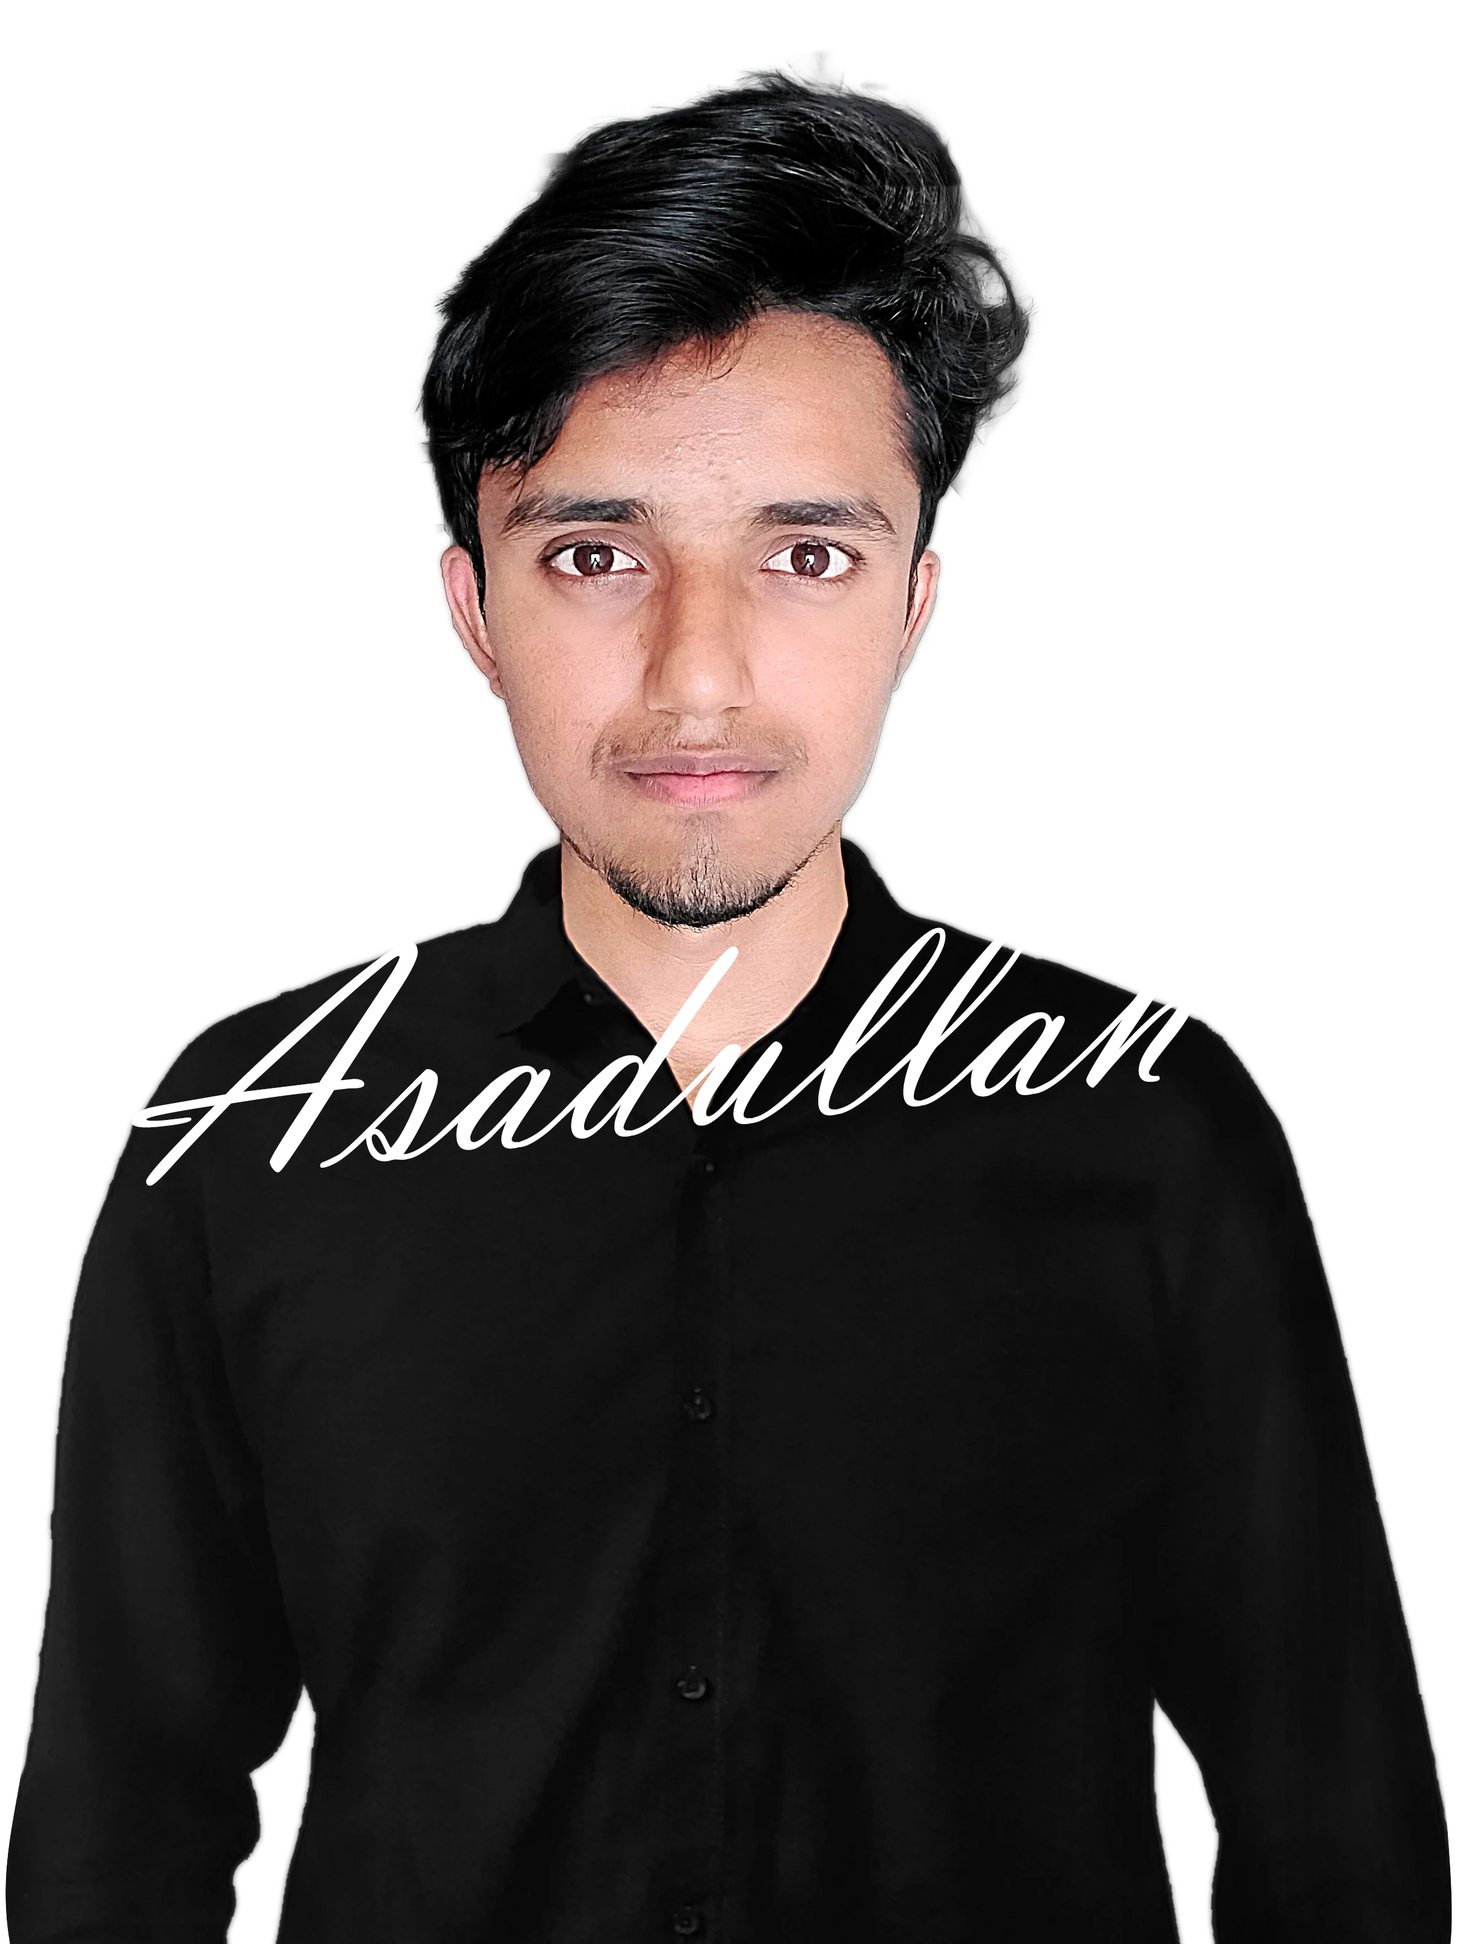
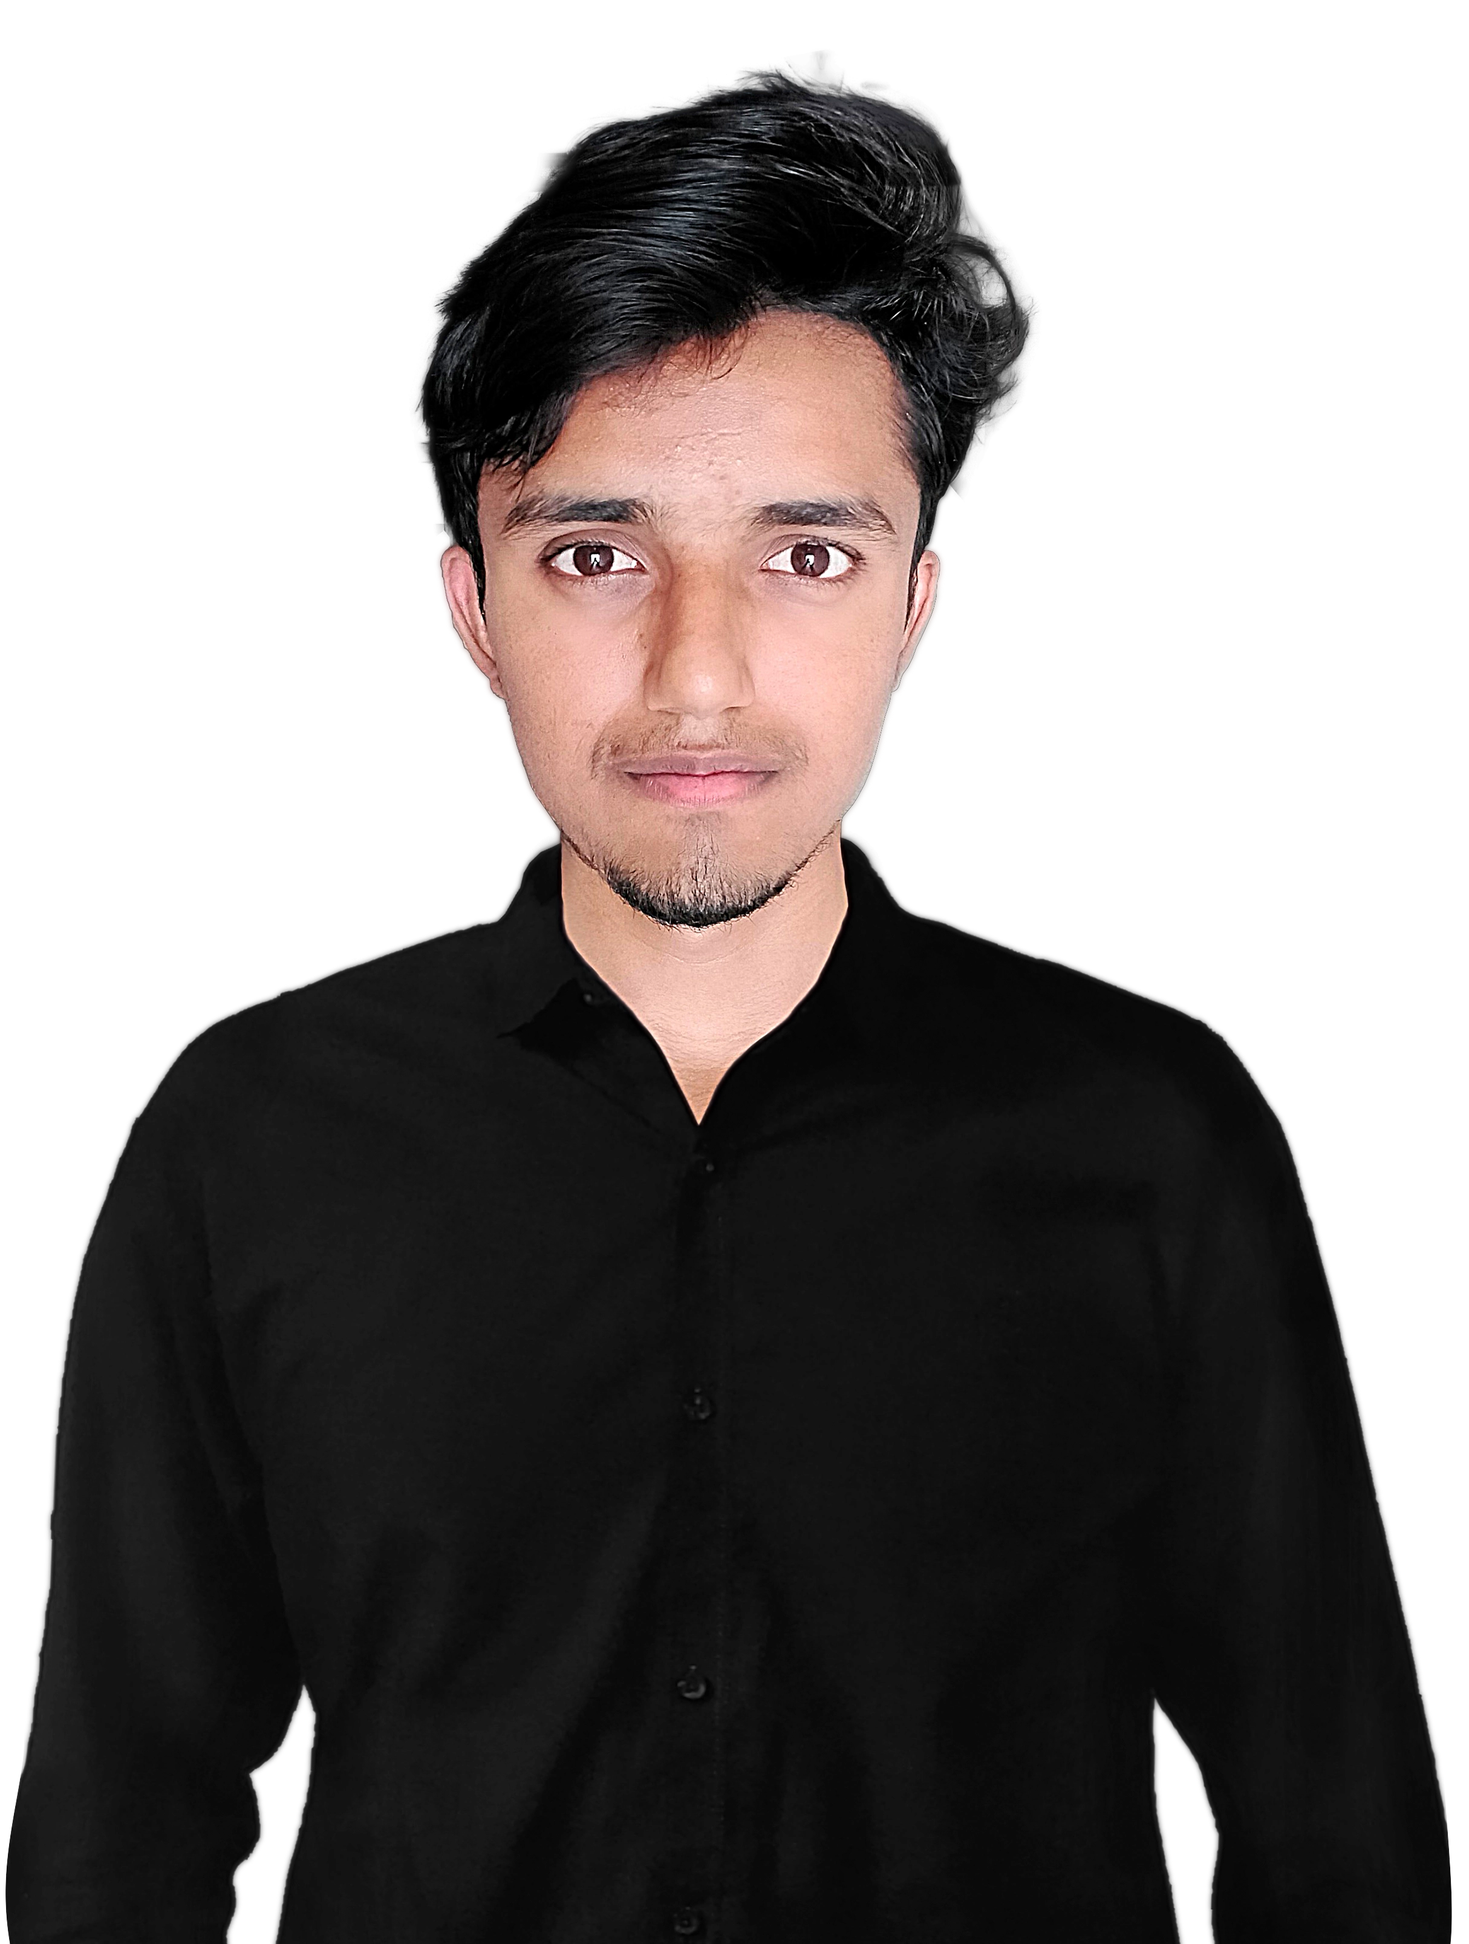
incomplete desktop

Changed region(s): [[0.0926, 0.4669, 0.8028, 0.6225]]

diff --git a/src/app/asadullah/svgs.tsx b/src/app/asadullah/svgs.tsx
@@ -67,10 +67,32 @@ export function GithubLogo() {
 export function Badge() {
     return (
         <svg className="mx-[auto]" xmlns="http://www.w3.org/2000/svg" width="205.4" height="205.533" viewBox="0 0 205.4 205.533">
-            <path id="Path_44" data-name="Path 44" d="M494.4,381.472a18.354,18.354,0,0,1-.666-17.521,12.189,12.189,0,0,0-3.179-15.2,18.34,18.34,0,0,1-6.275-16.424,12.189,12.189,0,0,0-7.9-13.356,18.367,18.367,0,0,1-11.3-13.425,12.175,12.175,0,0,0-11.8-10.065,18.423,18.423,0,0,1-15.049-9.024,12.176,12.176,0,0,0-14.439-5.692,18.381,18.381,0,0,1-17.146-3.651,12.162,12.162,0,0,0-15.508-.694,18.409,18.409,0,0,1-17.409,2.11,12.176,12.176,0,0,0-14.9,4.373,18.367,18.367,0,0,1-15.785,7.775,12.189,12.189,0,0,0-12.661,8.982,18.367,18.367,0,0,1-12.495,12.356,12.176,12.176,0,0,0-9.052,12.606,18.367,18.367,0,0,1-7.761,15.73,12.162,12.162,0,0,0-4.47,14.869,18.4,18.4,0,0,1-2.18,17.368,12.176,12.176,0,0,0,.6,15.507,18.409,18.409,0,0,1,3.54,17.173,12.189,12.189,0,0,0,5.553,14.48,18.367,18.367,0,0,1,8.927,15.091,12.176,12.176,0,0,0,10,11.884,18.354,18.354,0,0,1,13.342,11.37,12.189,12.189,0,0,0,13.314,8,18.339,18.339,0,0,1,16.354,6.456,12.176,12.176,0,0,0,15.174,3.235,18.4,18.4,0,0,1,17.521.777,12.176,12.176,0,0,0,15.452-1.93,18.354,18.354,0,0,1,16.826-4.956,12.175,12.175,0,0,0,13.966-6.775,18.367,18.367,0,0,1,14.314-10.135,12.189,12.189,0,0,0,11.009-10.94,18.381,18.381,0,0,1,10.232-14.244,12.176,12.176,0,0,0,6.858-13.883,18.4,18.4,0,0,1,5.067-16.785A12.175,12.175,0,0,0,494.4,381.472Z" transform="translate(-291.427 -273.456)" fill="none" stroke="var(--foreground)" strokeWidth="1" />
+            <path id="Path_44" data-name="Path 44" d="M494.4,381.472a18.354,18.354,0,0,1-.666-17.521,12.189,12.189,0,0,0-3.179-15.2,18.34,18.34,0,0,1-6.275-16.424,12.189,12.189,0,0,0-7.9-13.356,18.367,18.367,0,0,1-11.3-13.425,12.175,12.175,0,0,0-11.8-10.065,18.423,18.423,0,0,1-15.049-9.024,12.176,12.176,0,0,0-14.439-5.692,18.381,18.381,0,0,1-17.146-3.651,12.162,12.162,0,0,0-15.508-.694,18.409,18.409,0,0,1-17.409,2.11,12.176,12.176,0,0,0-14.9,4.373,18.367,18.367,0,0,1-15.785,7.775,12.189,12.189,0,0,0-12.661,8.982,18.367,18.367,0,0,1-12.495,12.356,12.176,12.176,0,0,0-9.052,12.606,18.367,18.367,0,0,1-7.761,15.73,12.162,12.162,0,0,0-4.47,14.869,18.4,18.4,0,0,1-2.18,17.368,12.176,12.176,0,0,0,.6,15.507,18.409,18.409,0,0,1,3.54,17.173,12.189,12.189,0,0,0,5.553,14.48,18.367,18.367,0,0,1,8.927,15.091,12.176,12.176,0,0,0,10,11.884,18.354,18.354,0,0,1,13.342,11.37,12.189,12.189,0,0,0,13.314,8,18.339,18.339,0,0,1,16.354,6.456,12.176,12.176,0,0,0,15.174,3.235,18.4,18.4,0,0,1,17.521.777,12.176,12.176,0,0,0,15.452-1.93,18.354,18.354,0,0,1,16.826-4.956,12.175,12.175,0,0,0,13.966-6.775,18.367,18.367,0,0,1,14.314-10.135,12.189,12.189,0,0,0,11.009-10.94,18.381,18.381,0,0,1,10.232-14.244,12.176,12.176,0,0,0,6.858-13.883,18.4,18.4,0,0,1,5.067-16.785A12.175,12.175,0,0,0,494.4,381.472Z" transform="translate(-291.427 -273.456)" fill="var(--accent2)" stroke="var(--foreground)" strokeWidth="0" />
         </svg>
 
     )
 }
+export function Signature({ className }: { className: string }) {
+    return (
+        <svg className={className} id="Group_29"  style={{ transform: 'rotate(-5deg)' }} data-name="Group 29" xmlns="http://www.w3.org/2000/svg" width="280"  viewBox="0 0 1098.633 214.893">
+            <defs>
+                <clipPath id="clip-path">
+                    <rect id="Rectangle_38" data-name="Rectangle 38" width="1098.633" height="214.893" fill="none" />
+                </clipPath>
+            </defs>
+            <g id="Group_28" data-name="Group 28" clip-path="url(#clip-path)">
+                <path id="Path_45" data-name="Path 45" d="M210.59,130.079h13.423q9.774,1.028,9.776,6.006,0,3.223-7.155,3.223l-9.49-.586-13.725.139L173.565,176.73q-30.291,37.724-33.51,37.724-2.847,0-5.242-4.193a12.84,12.84,0,0,1-2.245-6.654q0-4.539,49.88-64.746H171.011q-23.9.141-71.109,2.657L50.39,183.784,31.2,200.952q-15.53,13.5-18.9,13.5-4.1,0-4.1-4.25,0-5.284,42.334-40.515L84.082,141.8q-67.236,3.224-69.434,6.738v.147q0,2.784,20.947,2.783l19.629-.293q3.956-.144,3.955,1.758,0,4.1-31.933,4.1Q0,157.032,0,150.147q0-8.789,16.113-12.011,4.539-1.023,22.559-2.2L95.8,132.13q34.567-28.6,98.876-74.2Q276.559,0,292.383,0q7.91,0,7.91,10.261,0,8.652-20.634,34.3Zm-20.955,0,68.637-83.455,12.733-15.548q8.194-10.409,10.831-15.985l.224-.586q0-1.612-1.467-1.614-6.894,0-87.126,58.667L112.939,131.4Z" stroke="var(--foreground)" strokeWidth={2} fill="none" />
+                <path id="Path_46" data-name="Path 46" d="M230.127,189.4q-30.467,25.049-46.289,25.048a1.576,1.576,0,0,1-1.758-1.808q0-2.712,2.93-3.465a137.424,137.424,0,0,0,16.7-5.848q10.547-5.7,53.613-41.528,40.869-33.921,41.9-33.923a10.069,10.069,0,0,1,6.665,2.925q3.3,2.925,3.3,6.288,0,10.674-16.7,37.578-14.5,23.249-25.342,34.8,6.444,0,6.445,2.408,0,3.014-6.21,3.012a29.175,29.175,0,0,1-4.806-.586,29.155,29.155,0,0,0-4.8-.586,20.942,20.942,0,0,0-3.516.439,21.018,21.018,0,0,1-3.515.44q-18.606,0-18.6-25.2m19.043,17.429-4.1-11.654q-3.223-8.557-6.3-8.559-3.225,0-3.223,5.015a21.3,21.3,0,0,0,2.93,10.325q3.367,6.05,7.91,6.047a3.506,3.506,0,0,0,2.783-1.174m4.248-4.55q10.251-8.514,22.559-29.359,11.426-19.377,15.966-34.2L239.5,181.348q5.417.885,9.082,8.551Z" stroke="var(--foreground)" strokeWidth={2} fill="none" />
+                <path id="Path_47" data-name="Path 47" d="M323.144,183.639q-39.111,30.816-53.906,30.814-1.758,0-1.758-1.959,0-2.712,3.516-3.314,13.77-2.2,38.086-21.241l18.9-14.794,30.323-24.17q20.8-14.355,35.6-14.356,10.986,0,12.3,11.007,5.714-5.439,7.91-5.44,4.835,0,4.834,3.973,0,5.136-22.485,31.4t-22.486,30.592q0,3.028,4.834,3.173t4.834,2.551q0,3.015-9.961,3.013-9.816,0-9.814-8.659,0-6.9,7.91-19.666l-18.164,15.413q-13.332,9.984-21.24,9.982-12.6,0-12.6-12.767a42.626,42.626,0,0,1,3.369-15.557m72.8-43.014q-8.646,0-35.742,25.841t-27.1,34.5q0,3.966,3.809,3.965,8.349,0,35.815-25.326T400.2,145.47q0-4.844-4.248-4.845" stroke="var(--foreground)" strokeWidth={2} fill="none" />
+                <path id="Path_48" data-name="Path 48" d="M440.771,179.3l-27.685,21.24Q392.58,214.455,381.3,214.453a1.576,1.576,0,0,1-1.758-1.808q0-2.712,2.93-3.465a73.624,73.624,0,0,0,20.507-8.333q13.92-8.186,39.039-30.117t38.745-29.969q9.668-5.7,17.431-5.7,13.037,0,13.623,10.84,21.974-27.686,49.8-59.18,42.771-48.632,51.123-48.633,4.686,0,4.688,5.274,0,4.394-11.866,16.845-22.121,23-65.918,74.414-53.76,63.014-53.759,71.2,0,3.365,4.907,3.509t4.907,2.554q0,3.014-7.086,3.012-11.666,0-11.664-9.522,0-7.614,9.668-23.73Q457.761,212.4,445.605,212.4q-11.281,0-11.279-12.012,0-6.737,6.445-21.094m8.936,25.635q8.349,0,33.105-25.033t24.756-33.4q0-4.257-3.955-4.257-10.256,0-33.545,24.373t-23.291,35.239q0,3.083,2.93,3.083" stroke="var(--foreground)" strokeWidth={2} fill="none" />
+                <path id="Path_49" data-name="Path 49" d="M602.2,186.915q-25.488,24.9-37.5,24.9-9.086,0-9.082-10.107,0-11.865,10.547-26.66l18.9-22.266L543.164,187.5q-35.448,26.955-49.8,26.953-1.758,0-1.758-1.9,0-2.488,4.248-3.369a56.476,56.476,0,0,0,12.744-4.4q8.5-3.955,35.889-25.488,12.6-9.813,37.061-30.762a153.657,153.657,0,0,1,13.183-11.572,12.751,12.751,0,0,1,6.739-2.344q8.493,0,8.5,5.566,0,5.713-20.508,28.418t-20.508,32.374q0,2.492,2.637,2.49,8.789,0,39.111-33.545t34.424-33.545a5.613,5.613,0,0,1,4.028,2.124,6.366,6.366,0,0,1,1.978,4.321q0,3.516-22.632,29.663t-22.632,33.472q0,3.372,4.981,3.516t4.98,2.49q0,2.784-7.379,2.783-12.4,0-12.4-9.375,0-6.736,6.152-18.457" stroke="var(--foreground)" strokeWidth={2} fill="none" />
+                <path id="Path_50" data-name="Path 50" d="M692.578,167.139,656.4,194.385q-29.3,20.07-42.92,20.068a1.533,1.533,0,0,1-1.758-1.71q0-2.7,5.42-3.563,6.152-.879,14.209-5.278,9.668-5.128,32.959-22.433Q681.3,169.158,700.2,154.2q21.825-32.692,60.059-70.961,42.478-42.517,56.982-42.517,6.736,0,6.739,7.178,0,18.456-43.312,59.033A692.391,692.391,0,0,1,721.109,156.3q-7.464,5.583-18.584,23.648-11.559,18.508-11.558,26.148,0,3.674,8.057,3.671,1.9,0,1.9,2.28,0,2.849-7.675,2.847-12.1,0-12.1-12.305,0-12.009,11.426-35.449M816.213,45.264q-5.706,0-45.211,44.717-37.6,42.812-47.846,58.793Q818.848,70.921,818.848,47.61q0-2.344-2.635-2.346" stroke="var(--foreground)" strokeWidth={2} fill="none" />
+                <path id="Path_51" data-name="Path 51" d="M777.685,167.139,741.5,194.385q-29.3,20.07-42.92,20.068a1.533,1.533,0,0,1-1.758-1.71q0-2.7,5.42-3.563,6.152-.879,14.209-5.278,9.668-5.128,32.959-22.433Q766.4,169.158,785.3,154.2q21.825-32.692,60.059-70.961,42.478-42.517,56.982-42.517,6.736,0,6.739,7.178,0,18.456-43.312,59.033A692.391,692.391,0,0,1,806.216,156.3q-7.464,5.583-18.584,23.648-11.559,18.508-11.558,26.148,0,3.674,8.057,3.671,1.9,0,1.9,2.28,0,2.849-7.675,2.847-12.1,0-12.1-12.305,0-12.009,11.426-35.449M901.32,45.264q-5.706,0-45.211,44.717-37.6,42.812-47.846,58.793Q903.955,70.921,903.955,47.61q0-2.344-2.635-2.346" stroke="var(--foreground)" strokeWidth={2} fill="none" />
+                <path id="Path_52" data-name="Path 52" d="M837.6,183.639q-39.111,30.816-53.906,30.814-1.758,0-1.758-1.959,0-2.712,3.516-3.314,13.77-2.2,38.086-21.241l18.9-14.794,30.323-24.17q20.8-14.355,35.595-14.356,10.986,0,12.3,11.007,5.714-5.439,7.91-5.44,4.834,0,4.834,3.973,0,5.136-22.485,31.4t-22.486,30.592q0,3.028,4.834,3.173t4.834,2.551q0,3.015-9.961,3.013-9.816,0-9.814-8.659,0-6.9,7.91-19.666l-18.164,15.413q-13.332,9.984-21.24,9.982-12.6,0-12.6-12.767a42.627,42.627,0,0,1,3.369-15.557m72.8-43.014q-8.646,0-35.742,25.841t-27.1,34.5q0,3.966,3.809,3.965,8.349,0,35.815-25.326t27.466-34.136q0-4.844-4.248-4.845" stroke="var(--foreground)" strokeWidth={2} fill="none" />
+                <path id="Path_53" data-name="Path 53" d="M982.617,180.909q53.027-47.166,70.9-47.168,7.911,0,7.911,8.35,0,8.937-25.122,33.984t-25.123,29.443q0,4.1,8.057,4.1,2.049,0,2.051,2.344,0,2.784-7.178,2.783-12.744,0-12.744-10.693,0-12.306,19.629-32.374,24.023-24.609,25.928-27.978.143-1.758-1.758-1.758-8.058,0-41.016,27.979-24.609,20.8-39.551,35.742a90.96,90.96,0,0,1-9.814,8.789q-2.2,0-4.175-2.783a9.069,9.069,0,0,1-1.977-5.127q0-3.368,20.068-28.858l23.291-29.3q-14.211,13.332-35.449,30.03l-28.125,21.533q-21.237,14.5-32.666,14.5a1.576,1.576,0,0,1-1.758-1.808q0-2.712,2.93-3.466a75.627,75.627,0,0,0,21.386-8.77q17.139-10.527,51.416-39.473l29.59-25q9.372-7.91,52-57.861,38.376-44.969,42.041-44.971,5.274,0,5.274,6.592,0,4.542-29.444,39.258Z" stroke="var(--foreground)" strokeWidth={2} fill="none" />
+            </g>
+        </svg>
 
 
+    )
+}

diff --git a/src/app/asadullah/page.tsx b/src/app/asadullah/page.tsx
@@ -1,7 +1,7 @@
 'use client'
 import ContactForm from './components/contactus.tsx'
 import ThemeBtn from './components/theme-btn.tsx'
-import { DevxioLogo, FbLogo, TwitterLogo, LinkedinLogo, GithubLogo, Badge } from './svgs.tsx'
+import { DevxioLogo, FbLogo, TwitterLogo, LinkedinLogo, GithubLogo, Badge, Signature } from './svgs.tsx'
 import { useEffect, useState } from 'react';
 
 
@@ -25,7 +25,7 @@ export default function Home() {
   return (
     <main className="text-foreground">
       <div className='min-w-[330px] mx-[auto]'>
-        <div className={`mobile-wrapper h-8 flex justify-between sticky z-20 top-0 ${scrollAtTop ? '' : 'glass border-b-[1px]'} border-[#00000017] dark:border-[#ffffff17] `}>
+        <div className={`mobile-wrapper max-w-full h-8 flex justify-between sticky z-20 top-0 ${scrollAtTop ? '' : 'glass border-b-[1px]'} border-[#00000017] dark:border-[#ffffff17] `}>
           <div className='w-full flex justify-between items-center'>
             <DevxioLogo/>
             <ThemeBtn/>
@@ -37,13 +37,17 @@ export default function Home() {
             dark:bg-[linear-gradient(to_bottom,_#00000000_70%,var(--background)_80%),url(/assets/asadullahpic.webp)]
             bg-contain bg-no-repeat sm:mb-[-320px] md:mt-[-120px]'>
           </div>
-          <h1 className='hero-heading max-sm:mt-[-40%] sm:hero-heading-sm sm:py-2
-          md:hero-heading-md md:py-4'>
+          <div className='max-sm:mt-[-65%] pb-7 sm:absolute sm:top-8 sm:w-[30%]'>
+            <Signature className="w-[90%] mx-[auto] "/>
+          </div>
+          <h1 className='hero-heading sm:hero-heading-sm
+          md:hero-heading-md'>
             <span className='bg-clip-1'>Full</span>|
             <span className='bg-clip-1'>Stack </span>
             <span className='bg-clip-1 tracking-[1.48px]'>Developer</span>
           </h1>
-          <a role='button' href='/asadullah/cv' className='text-v2 border-[1px] border-accent5 rounded-lg p-3 comp-width block mt-4'>
+          <a role='button' href='/asadullah/cv' className='text-v2 border-[1px] border-accent5 rounded-lg p-3 comp-width block mt-4
+          md:w-10'>
             VIEW CV
           </a>
           <div className='flex justify-between items-center comp-width mt-4 '>
@@ -52,7 +56,8 @@ export default function Home() {
             <a href='https://www.linkedin.com/in/JoinAsadullah/' target='_blank'> <LinkedinLogo /> </a>
             <a href='https://github.com/JoinAsadullah/' target='_blank'>     <GithubLogo />      </a>
           </div>
-          <h2 className='comp-width mt-4 text-v1 text-left sm:text-center'>
+          <h2 className='comp-width mt-4 text-v1 text-left sm:text-center
+          '>
             I&#39;m Muhammad Asadullah Full Stack Developer with design, development, and marketing expertise. Let&#39;s create exceptional websites and applications together.
           </h2>
         </div>
@@ -60,7 +65,8 @@ export default function Home() {
           <h3 className='text-v0 text-center'>
             SKILLS
           </h3>
-          <div className='flex justify-between flex-wrap pic-invert comp-width'>
+          <div className='flex justify-between flex-wrap pic-invert comp-width
+          md:max-w-full'>
             <img src='/assets/skill(1).webp' alt='skill logo' className='h-[30px] m-3'/>
             <img src='/assets/skill(2).webp' alt='skill logo' className='h-[30px] m-3'/>
             <img src='/assets/skill(3).webp' alt='skill logo' className='h-[30px] m-3'/>
@@ -84,7 +90,9 @@ export default function Home() {
           </h3>
           <div className='rounded-md bg-accent1 rounded-xl p-4 text-center comp-width'>
             <div className='w-[206px] mx-[auto] my-6 mb-8 relative'>
-              <div className=' absolute top-0 w-full h-full p-5 flex items-center'><h2 className='text-v2 w-full'>5 years experience.</h2></div>
+              <div className=' absolute top-0 w-full h-full p-5 flex items-center'>
+                <h2 className='text-v3 w-full'>5 Years Experience</h2>
+              </div>
               <Badge />
             </div>
             <h4 className='p-3 my-4 text-v1 bg-accent2 rounded-md'>
@@ -103,13 +111,13 @@ export default function Home() {
             WHAT I&#39;VE DONE SO FAR
           </h3>
           <div className='comp-width'>
-            <div className='w-full aspect-[.69] sm:aspect-square relative truncate
+            <div className='w-full aspect-[.71] sm:aspect-square relative truncate
             md:aspect-[1.2]
             '>
               <img src='/assets/fa.webp' alt='focus academy website screenshot' className='absolute top-0 w-full top-bdr border-[10px] border-accent1 object-cover top-0 jsm:aspect-[1]'/>
             </div>
             <div className=' bottom-bdr bg-accent1 py-2'>
-              <p className='w-full mx-[auto] text-v1 text-center'>
+              <p className='w-full mx-[auto] text-v1 text-center p-4'>
                 Designed and developed Focus Academy Website
               </p>
               <div className='flex justify-center items-center pic-invert'>
@@ -119,13 +127,13 @@ export default function Home() {
             </div>
           </div>
           <div className='comp-width mt-4'>
-            <div className='w-full aspect-[.69] sm:aspect-square relative truncate
+            <div className='w-full aspect-[.71] sm:aspect-square relative truncate
             md:aspect-[1.2]
             '>
               <img src='/assets/bk.webp' alt='focus academy website screenshot' className='absolute top-0 w-full top-bdr border-[6px] sm:border-[10px] border-accent1 object-cover mb-[-20]'/>
             </div>
             <div className=' bottom-bdr bg-accent1 py-2'>
-              <p className='w-full mx-[auto] text-v1 text-center'>
+              <p className='w-full mx-[auto] text-v1 text-center p-4'>
                 Re developed the Front end of entire Bika Construction website
               </p>
               <div className='flex justify-center items-center pic-invert'>

diff --git a/src/app/globals.css b/src/app/globals.css
@@ -83,6 +83,8 @@ body{
   }
   .mobile-wrapper{
     @apply px-[5%];
+    max-width: 1200px;
+    margin: 0 auto;
   }
   .glass{
     background-color: var(--background-o8);
@@ -113,10 +115,23 @@ body{
     font-weight: 400;
     color: var(--foreground);
   }
+  @media screen and (min-width: 760px) {
+    .text-v1{
+      font-size: var(--font-size-3) ;
+      font-weight: 400;
+      color: var(--foreground);
+    }
+  }
   .text-v2{
     font-size: var(--font-size-2) ;
     font-weight: 700;
     color: var(--accent7);
+  }
+  .text-v3{
+    font-size: var(--font-size-5) ;
+    font-weight: 800;
+    color: var(--accent7);
+    letter-spacing: 1px;
   }
   .div-space{
     @apply mt-8;
